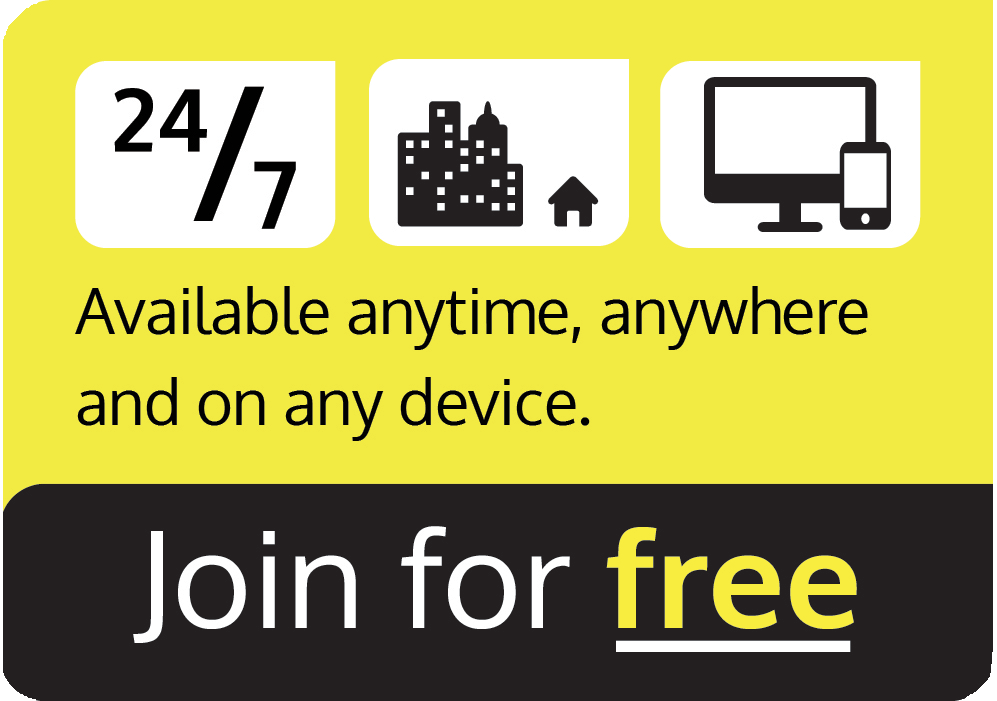
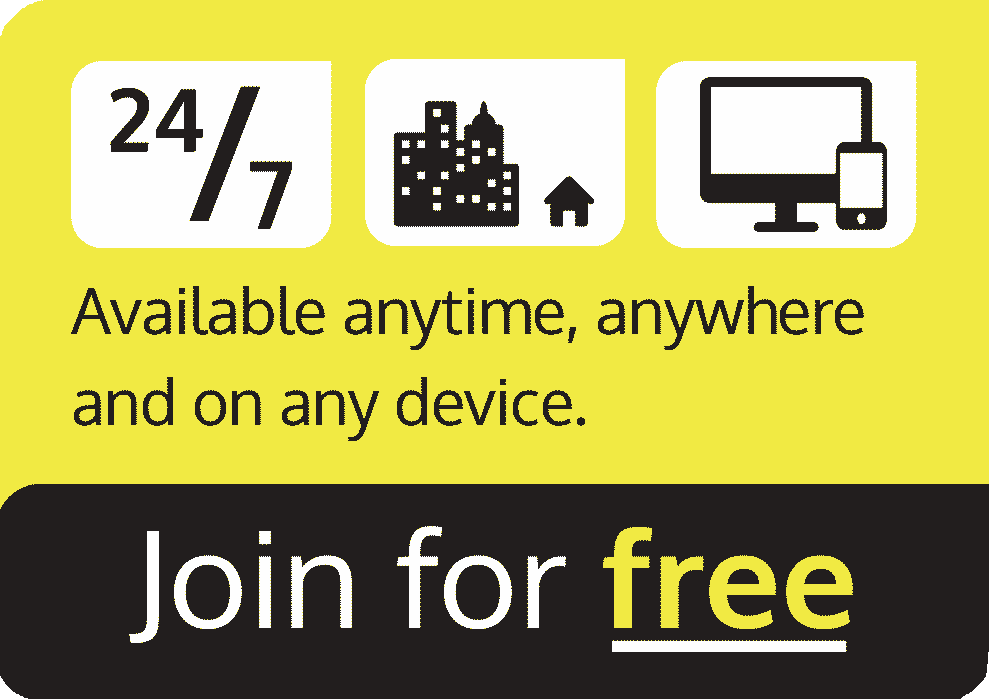
changed buttons from png to svg and smushed em

diff --git a/index.html b/index.html
@@ -74,7 +74,7 @@
 
     <div class="unit unit-xs-1 unit-s-1 unit-m-1-2 unit-l-1-2 push-2">
       <div class="embed embed--3by2 imgbox">
-        <a href="signup.html"><img class="embed__item" src="img/joinforfreefull.png" alt="Available anytime, anywhere and on any device. Click to Join for free"></a>
+        <a href="signup.html"><img class="embed__item" src="img/joinforfreefull.svg" alt="Available anytime, anywhere and on any device. Click to Join for free"></a>
       </div>
     </div>
 </div>
@@ -98,7 +98,7 @@
 <div class="grid island greyb tour" role="tour" id="tour">
     <div class="unit unit-xs-1 unit-s-1 unit-m-1-2 unit-l-1-2 push-2">
       <div class="embed embed--3by2 imgbox">
-        <a href="tour.html"><img class="embed__item" src="img/takethetour-button-full.png" alt="Meet our teachers, browse our courses and click here to sign up"></a>
+        <a href="tour.html"><img class="embed__item" src="img/takethetour-button-full.svg" alt="Meet our teachers, browse our courses and click here to sign up"></a>
       </div>
     </div>
 
@@ -142,7 +142,7 @@
 
     <div class="unit unit-xs-1 unit-s-1 unit-m-1-2 unit-l-1-2 push-2 island">
       <div class="embed embed--3by2 imgbox">
-          <a href="signup.html"><img class="embed__item" src="img/starttoday-button-full.png" alt="Start building apps, games and websites right now. Click here to sign-up"></a>
+          <a href="signup.html"><img class="embed__item" src="img/starttoday-button-full.svg" alt="Start building apps, games and websites right now. Click here to sign-up"></a>
       </div>
     </div>
 </div>
@@ -257,19 +257,19 @@
 
     <div class="unit unit-xs-1 unit-s-1 unit-m-1-4 unit-l-1-4 island">
       <div class="embed embed--3by2 imgbox">
-          <a href="signup.html"><img class="embed__item" src="img/joinforfreefull.png" alt=""></a>
+          <a href="signup.html"><img class="embed__item" src="img/joinforfreefull.svg" alt=""></a>
       </div>
     </div>
 
     <div class="unit unit-xs-1 unit-s-1 unit-m-1-4 unit-l-1-4 island">
       <div class="embed embed--3by2 imgbox">
-          <a href="tour.html"><img class="embed__item" src="img/takethetour-button-full.png" alt=""></a>
+          <a href="tour.html"><img class="embed__item" src="img/takethetour-button-full.svg" alt=""></a>
       </div>
     </div>
 
     <div class="unit unit-xs-1 unit-s-1 unit-m-1-4 unit-l-1-4 island">
       <div class="embed embed--3by2 imgbox">
-          <a href="signup.html"><img class="embed__item" src="img/starttoday-button-full.png" alt=""></a>
+          <a href="signup.html"><img class="embed__item" src="img/starttoday-button-full.svg" alt=""></a>
       </div>
     </div>
 

diff --git a/tour.html b/tour.html
@@ -71,7 +71,7 @@
 
     <div class="unit unit-xs-1 unit-s-1 unit-m-1-2 unit-l-1-2 push-2">
       <div class="embed embed--3by2 imgbox">
-          <img class="embed__item" src="img/joinforfreefull.png" alt="Available anytime, anywhere and on any device. Click to Join for free">
+          <img class="embed__item" src="img/joinforfreefull.svg" alt="Available anytime, anywhere and on any device. Click to Join for free">
       </div>
     </div>
   </div>
@@ -101,7 +101,7 @@
 
   <div class="unit unit-xs-1 unit-s-1 unit-m-1-2 unit-l-1-2 push-2">
     <div class="embed embed--3by2 imgbox">
-        <img class="embed__item" src="img/starttoday-button-full.png" alt="Available anytime, anywhere and on any device. Click to Join for free">
+        <img class="embed__item" src="img/starttoday-button-full.svg" alt="Available anytime, anywhere and on any device. Click to Join for free">
     </div>
   </div>
 </div>
@@ -129,7 +129,7 @@
 
   <div class="unit unit-xs-1 unit-s-1 unit-m-1-2 unit-l-1-2 push-2">
     <div class="embed embed--3by2 imgbox">
-        <img class="embed__item" src="img/joinforfreefull.png" alt="Available anytime, anywhere and on any device. Click to Join for free">
+        <img class="embed__item" src="img/joinforfreefull.svg" alt="Available anytime, anywhere and on any device. Click to Join for free">
     </div>
   </div>
 </div>
@@ -139,7 +139,7 @@
 
   <div class="grid grid-bottom push">
 
-    <div class="unit unit-xs-1-2 unit-s-1-2 unit-m-1 unit-l-1-2">
+    <div class="unit unit-xs-1-2 unit-s-1-2 unit-m-1 unit-l-1-2 gutter">
         <a href="index.html"><h1 class="push-0"><img class="img-flex logo" src="img/logo.png"></h1></a>
     </div>
 

diff --git a/prices.html b/prices.html
@@ -151,7 +151,7 @@
 
     <div class="unit unit-xs-1 unit-s-1 unit-m-1-2 unit-l-1-2 push-2">
       <div class="embed embed--3by2 imgbox">
-          <a href="signup.html"><img class="embed__item" src="img/joinforfreefull.png" alt=""></a>
+          <a href="signup.html"><img class="embed__item" src="img/joinforfreefull.svg" alt=""></a>
       </div>
     </div>
   </div>
